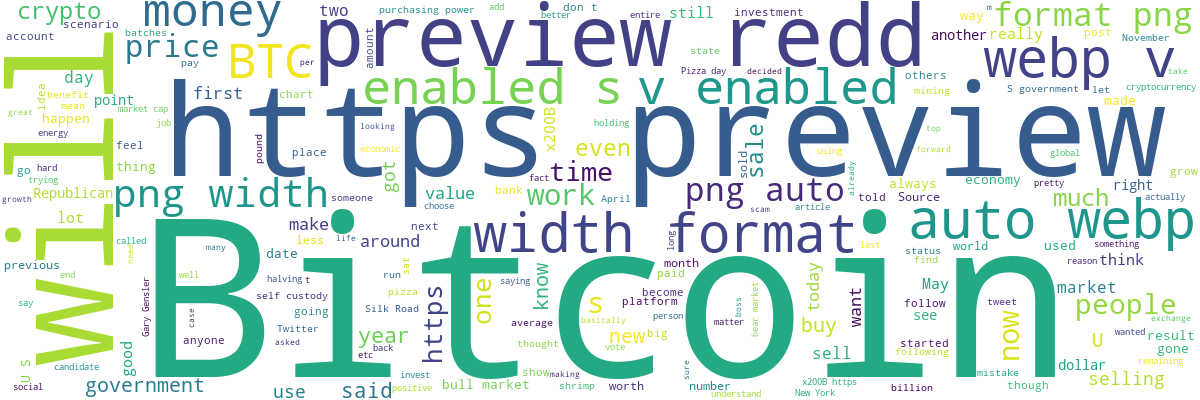
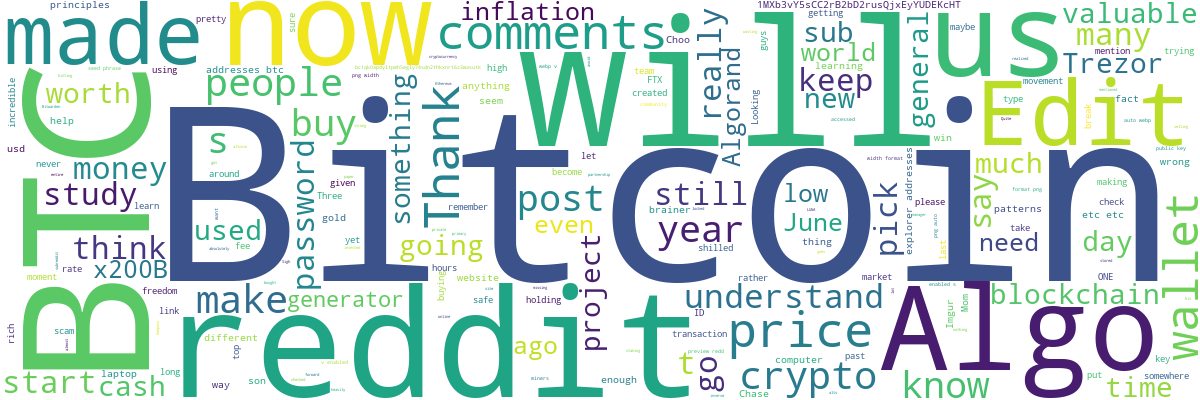
remove stopwords from wordcloud

diff --git a/opinionminer/reddit_opinions.py b/opinionminer/reddit_opinions.py
@@ -11,7 +11,6 @@ import prawcore
 # Creative_Intern7785
 
 
-
 reddit = praw.Reddit(client_id=client_id,
                      client_secret=secret_key,
                      user_agent='My first App for Opinion Mining')
@@ -30,6 +29,43 @@ def get_sentiment(text):
 import prawcore
 
 def get_opinions(topic, start_date, end_date):
+    opinions = []
+
+    # Convert start_date and end_date to datetime objects
+    start_time = datetime.combine(start_date, datetime.min.time())
+    end_time = datetime.combine(end_date, datetime.max.time())
+
+    try:
+        # Retrieve posts from the general Reddit search
+        for submission in reddit.subreddit('all').search(topic, time_filter='all'):
+            submission_time = datetime.fromtimestamp(submission.created_utc)
+            if start_time <= submission_time <= end_time:
+                lang = detect(submission.title + submission.selftext)
+                if lang == 'en':
+                    sentiment = get_sentiment(submission.title + submission.selftext)
+                    opinion = Opinion(title=submission.title, text=submission.selftext,
+                                      sentiment=sentiment, date=submission_time.date())
+                    opinions.append(opinion)
+    except prawcore.exceptions.Redirect:
+        pass
+
+    try:
+        # Retrieve posts from the specified subreddit
+        for submission in reddit.subreddit(topic).search(topic, time_filter='all'):
+            submission_time = datetime.fromtimestamp(submission.created_utc)
+            if start_time <= submission_time <= end_time:
+                lang = detect(submission.title + submission.selftext)
+                if lang == 'en':
+                    sentiment = get_sentiment(submission.title + submission.selftext)
+                    opinion = Opinion(title=submission.title, text=submission.selftext,
+                                      sentiment=sentiment, date=submission_time.date())
+                    opinions.append(opinion)
+    except prawcore.exceptions.Redirect:
+        pass
+
+    return opinions
+
+def get_second_opinions(topic, start_date, end_date):
     opinions = []
 
     # Convert start_date and end_date to datetime objects

diff --git a/opinionminer/views.py b/opinionminer/views.py
@@ -12,6 +12,7 @@ import numpy as np
 from wordcloud import WordCloud
 import sklearn
 from sklearn.linear_model import LinearRegression
+from wordcloud import STOPWORDS
 
 
 
@@ -93,7 +94,12 @@ def opinions_view(request):
 
         # Generate word cloud data
         text_data = ' '.join(opinion.text for opinion in opinions)
-        wordcloud = WordCloud(width=1200, height=400, background_color='white').generate(text_data)
+        excluded_words = set(STOPWORDS)  # Use the set of default STOPWORDS
+        excluded_words.update(['https', 'www', 'com'])  # Add additional words to exclude
+        wordcloud = WordCloud(width=1200, height=400, background_color='white', stopwords=excluded_words).generate(
+            text_data)
+
+        #wordcloud = WordCloud(width=1200, height=400, background_color='white').generate(text_data)
 
         # Save the word cloud image
         wordcloud_path = 'opinionminer/static/opinionminer/wordcloud.png'

diff --git a/opinionminer/forms.py b/opinionminer/forms.py
@@ -1,6 +1,10 @@
 from django import forms
 
 class QueryForm(forms.Form):
-    query = forms.CharField(max_length=100)
+    query = forms.CharField(label='Enter a query', max_length=100)
     start_date = forms.DateField()
     end_date = forms.DateField()
+
+    second_query = forms.CharField(label='Enter a second query', max_length=100, required=False)
+    second_start_date = forms.DateField(required=False)
+    second_end_date = forms.DateField(required=False)

diff --git a/OpinionMining/settings.py b/OpinionMining/settings.py
@@ -43,6 +43,7 @@ INSTALLED_APPS = [
     'django.contrib.messages',
     'django.contrib.staticfiles',
     'opinionminer',
+    'pdfkit'
 ]
 
 MIDDLEWARE = [
